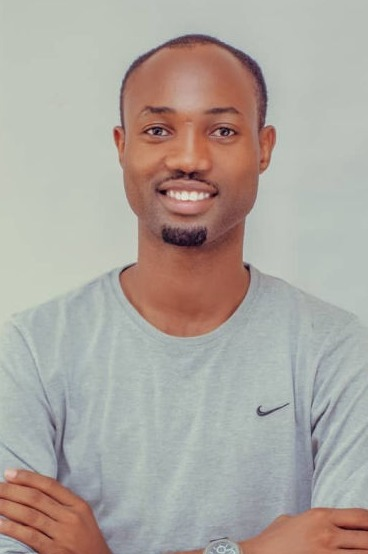
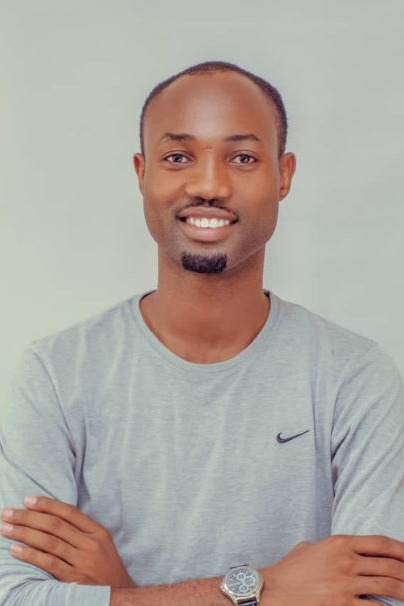
create github pages

diff --git a/home.html b/home.html
@@ -127,90 +127,6 @@
     </div>
 </section>
 
-<section class="extTeams cid-sg38Oh1T4O" id="extTeams12-20">
-
-    
-
-    
-    <div class="container">
-        <h2 class="mbr-title mbr-fonts-style align-center mbr-black display-2">
-            Our Awesome Team
-        </h2>
-        <div class="row justify-content-center pt-5">
-            <div class="col-sm-6 card-wrap col-lg-3">
-                <div class="image-wrap">
-                    <img src="assets/images/dr.-gbonjubola-abiri-506x675.jpg" alt="">
-                </div>
-                <div class="card-bottom pb-3">
-                    <h3 class="mbr-fonts-style mbr-section-title align-center pt-3 display-5">Edward Nash</h3>
-                    <h3 class="mbr-fonts-style mbr-role align-center pt-2 display-4">
-                        <em>Jurist</em>
-                    </h3>
-                    <div class="py-2 ornament align-center">
-                        <svg xmlns="http://www.w3.org/2000/svg" viewBox="0 0 133 20" height="20" width="150" fill="#149dcc">
-                            <g><path d="M127.18,6.19C121-.05,109.94-.24,101.84.1,90.84.56,80,3.3,69.32,5.77c-8,1.86-16,3.63-24,5.72-9.21,2.41-18.6,4.72-28.14,5.19-4.1.2-8.48,0-12.16-2a6.6,6.6,0,0,1-2.7-9A5.46,5.46,0,0,1,7.07,2.77c4-.22,6.73,8.39-.08,4.58a.49.49,0,0,0-.49.84c4.88,3,10.8,0,5.4-4.91C7.6-.63.4,2.06,0,8-1,24,28.25,17,36.29,15.24,53.74,11.37,70.9,6.44,88.53,3.33c11.1-2,24.75-3.54,35.06,2.19a16,16,0,0,1,6.86,8.85c1.29,4.31-4.35,4.2-7,3.52-4.84-1.26-2.42-8,1.22-3,.61.83,2,0,1.4-.82-2.15-2.93-6.71-4.9-7.12.35s8.36,7.24,11.72,4.47C135,15.32,129.91,9,127.18,6.19Z"></path></g>
-                        </svg>
-                    </div>
-                    
-                </div>
-            </div>
-            <div class="col-sm-6 card-wrap col-lg-3">
-                <div class="image-wrap">
-                    <img src="assets/images/jesudamilare-adesegun-david-506x762.jpg" alt="">
-                </div>
-                <div class="card-bottom pb-3">
-                    <h3 class="mbr-fonts-style mbr-section-title align-center pt-3 display-5">Phoebe Farmer</h3>
-                    <h3 class="mbr-fonts-style mbr-role align-center pt-2 display-4">
-                        <em>Accountant</em>
-                    </h3>
-                    <div class="py-2 ornament align-center">
-                        <svg xmlns="http://www.w3.org/2000/svg" viewBox="0 0 133 20" height="20" width="150" fill="#149dcc">
-                            <g><path d="M127.18,6.19C121-.05,109.94-.24,101.84.1,90.84.56,80,3.3,69.32,5.77c-8,1.86-16,3.63-24,5.72-9.21,2.41-18.6,4.72-28.14,5.19-4.1.2-8.48,0-12.16-2a6.6,6.6,0,0,1-2.7-9A5.46,5.46,0,0,1,7.07,2.77c4-.22,6.73,8.39-.08,4.58a.49.49,0,0,0-.49.84c4.88,3,10.8,0,5.4-4.91C7.6-.63.4,2.06,0,8-1,24,28.25,17,36.29,15.24,53.74,11.37,70.9,6.44,88.53,3.33c11.1-2,24.75-3.54,35.06,2.19a16,16,0,0,1,6.86,8.85c1.29,4.31-4.35,4.2-7,3.52-4.84-1.26-2.42-8,1.22-3,.61.83,2,0,1.4-.82-2.15-2.93-6.71-4.9-7.12.35s8.36,7.24,11.72,4.47C135,15.32,129.91,9,127.18,6.19Z"></path></g>
-                        </svg>
-                    </div>
-                    
-                </div>
-            </div>
-            <div class="col-sm-6 card-wrap col-lg-3">
-                <div class="image-wrap">
-                    <img src="assets/images/sola-oguche-agudah-506x724.jpg" alt="">
-                </div>
-                <div class="card-bottom pb-3">
-                    <h3 class="mbr-fonts-style mbr-section-title align-center pt-3 display-5">Mary Page</h3>
-                    <h3 class="mbr-fonts-style mbr-role align-center pt-2 display-4">
-                        <em>Designer</em>
-                    </h3>
-                    <div class="py-2 ornament align-center">
-                        <svg xmlns="http://www.w3.org/2000/svg" viewBox="0 0 133 20" height="20" width="150" fill="#149dcc">
-                            <g><path d="M127.18,6.19C121-.05,109.94-.24,101.84.1,90.84.56,80,3.3,69.32,5.77c-8,1.86-16,3.63-24,5.72-9.21,2.41-18.6,4.72-28.14,5.19-4.1.2-8.48,0-12.16-2a6.6,6.6,0,0,1-2.7-9A5.46,5.46,0,0,1,7.07,2.77c4-.22,6.73,8.39-.08,4.58a.49.49,0,0,0-.49.84c4.88,3,10.8,0,5.4-4.91C7.6-.63.4,2.06,0,8-1,24,28.25,17,36.29,15.24,53.74,11.37,70.9,6.44,88.53,3.33c11.1-2,24.75-3.54,35.06,2.19a16,16,0,0,1,6.86,8.85c1.29,4.31-4.35,4.2-7,3.52-4.84-1.26-2.42-8,1.22-3,.61.83,2,0,1.4-.82-2.15-2.93-6.71-4.9-7.12.35s8.36,7.24,11.72,4.47C135,15.32,129.91,9,127.18,6.19Z"></path></g>
-                        </svg>
-                    </div>
-                    
-                </div>
-            </div>
-            <div class="col-sm-6 card-wrap col-lg-3">
-                <div class="image-wrap">
-                    <img src="assets/images/ifeoluwa-shoola-506x759.jpeg" alt="">
-                </div>
-                <div class="card-bottom pb-3">
-                    <h3 class="mbr-fonts-style mbr-section-title align-center pt-3 display-5">Donald Walsh</h3>
-                    <h3 class="mbr-fonts-style mbr-role align-center pt-2 display-4">
-                        <em>Programmer</em>
-                    </h3>
-                    <div class="py-2 ornament align-center">
-                        <svg xmlns="http://www.w3.org/2000/svg" viewBox="0 0 133 20" height="20" width="150" fill="#149dcc">
-                            <g><path d="M127.18,6.19C121-.05,109.94-.24,101.84.1,90.84.56,80,3.3,69.32,5.77c-8,1.86-16,3.63-24,5.72-9.21,2.41-18.6,4.72-28.14,5.19-4.1.2-8.48,0-12.16-2a6.6,6.6,0,0,1-2.7-9A5.46,5.46,0,0,1,7.07,2.77c4-.22,6.73,8.39-.08,4.58a.49.49,0,0,0-.49.84c4.88,3,10.8,0,5.4-4.91C7.6-.63.4,2.06,0,8-1,24,28.25,17,36.29,15.24,53.74,11.37,70.9,6.44,88.53,3.33c11.1-2,24.75-3.54,35.06,2.19a16,16,0,0,1,6.86,8.85c1.29,4.31-4.35,4.2-7,3.52-4.84-1.26-2.42-8,1.22-3,.61.83,2,0,1.4-.82-2.15-2.93-6.71-4.9-7.12.35s8.36,7.24,11.72,4.47C135,15.32,129.91,9,127.18,6.19Z"></path></g>
-                        </svg>
-                    </div>
-                    
-                </div>
-            </div>
-            
-            
-        </div>
-    </div>
-</section>
-
 <section class="extTeams cid-sg2m8mM3js" id="extTeams5-1v">
 
     
@@ -271,7 +187,7 @@
                         <a href="#"><span mbr-icon class="mbr-iconfont mbr-iconfont-social socicon-linkedin socicon" mbr-if="iconsCount > 1"></span></a>
                         <a href="#"><span mbr-icon class="mbr-iconfont mbr-iconfont-social socicon-instagram socicon" mbr-if="iconsCount > 2"></span></a>
                             </div> -->
-                        <img src="assets/images/sola-oguche-agudah-506x724.jpg" alt="">
+                        <img src="assets/images/sola-oguche-agudah-506x724.jpeg" alt="">
                     </div>
                     <div class="card-box">
                         <h4 class="card-title pt-4 mbr-fonts-style display-5"><strong>Sola Oguche-Agudah</strong></h4>
@@ -291,7 +207,7 @@
                         <a href="#"><span mbr-icon class="mbr-iconfont mbr-iconfont-social socicon-linkedin socicon" mbr-if="iconsCount > 1"></span></a>
                         <a href="#"><span mbr-icon class="mbr-iconfont mbr-iconfont-social socicon-instagram socicon" mbr-if="iconsCount > 2"></span></a>
                             </div> -->
-                        <img src="assets/images/ifeoluwa-shoola-506x337.jpeg" alt="">
+                        <img src="assets/images/ifeoluwa-shoola-506x759.jpeg" alt="">
                     </div>
                     <div class="card-box">
                         <h4 class="card-title pt-4 mbr-fonts-style display-5"><strong>Ifeoluwa Shoola</strong></h4>
@@ -339,7 +255,7 @@
                     Please feel free to reach out to us via our contact channels if you have any enquiries.</p>
             </div>
             <div class="col-12 col-md-6">
-                <div class="google-map"><iframe frameborder="0" style="border:0" src="https://www.google.com/maps/embed/v1/place?key=AIzaSyCNveGQ9bfpKFwWzQLLftrR9hNiHwdqQG8&amp;q=Lekki, Lagos, Nigeria" allowfullscreen=""></iframe></div>
+                <div class="google-map"><iframe frameborder="0" style="border:0" src="https://www.google.com/maps/embed/v1/place?key=AIzaSyCZI5F_k6S1k46ujh0SNrapM89f7mJxd30&amp;q=Lekki, Lagos, Nigeria" allowfullscreen=""></iframe></div>
             </div>
             <div class="col-md-6">
                 

diff --git a/assets/mobirise/css/mbr-additional.css b/assets/mobirise/css/mbr-additional.css
@@ -1619,67 +1619,6 @@ a {
   width: 100%;
   object-fit: cover;
 }
-.cid-sg38Oh1T4O {
-  padding-top: 60px;
-  padding-bottom: 60px;
-  background: #ffd3ce;
-  background: linear-gradient(90deg, #ffd3ce, #d1d5ff);
-}
-.cid-sg38Oh1T4O .mbr-section-title {
-  margin-bottom: 0;
-}
-.cid-sg38Oh1T4O .mbr-role {
-  padding-bottom: .5rem;
-}
-.cid-sg38Oh1T4O .mbr-iconfont {
-  color: #767676;
-  font-size: 1rem;
-}
-.cid-sg38Oh1T4O .mbr-iconfont:hover {
-  color: #149dcc;
-}
-.cid-sg38Oh1T4O .image-wrap {
-  position: relative;
-  height: 100%;
-}
-.cid-sg38Oh1T4O .image-wrap img {
-  width: 100%;
-  z-index: 0;
-  object-fit: cover;
-  object-position: center center;
-  height: 100%;
-}
-.cid-sg38Oh1T4O .card-wrap {
-  margin-bottom: 3rem;
-  overflow-y: hidden;
-  height: 400px;
-}
-.cid-sg38Oh1T4O .social-media {
-  list-style-type: none;
-  width: 100%;
-  z-index: 1;
-}
-.cid-sg38Oh1T4O .social-media ul {
-  margin: 0;
-  padding: 0;
-}
-.cid-sg38Oh1T4O .social-media ul li {
-  margin-right: .8rem;
-  display: inline-block;
-}
-.cid-sg38Oh1T4O .card-bottom {
-  background-color: #ffffff;
-  position: absolute;
-  left: 15px;
-  bottom: -92px;
-  padding: 0 .5rem;
-  width: calc(100% - 30px);
-  transition: bottom 0.2s ease-in;
-  bottom: -60px;
-}
-.cid-sg38Oh1T4O .card-bottom:hover {
-  bottom: 0;
-}
 .cid-sg2m8mM3js {
   padding-top: 60px;
   padding-bottom: 60px;

diff --git a/about us.html b/about us.html
@@ -111,7 +111,7 @@
                     Please feel free to reach out to us via our contact channels if you have any enquiries.</p>
             </div>
             <div class="col-12 col-md-6">
-                <div class="google-map"><iframe frameborder="0" style="border:0" src="https://www.google.com/maps/embed/v1/place?key=AIzaSyCNveGQ9bfpKFwWzQLLftrR9hNiHwdqQG8&amp;q=Lekki, Lagos, Nigeria" allowfullscreen=""></iframe></div>
+                <div class="google-map"><iframe frameborder="0" style="border:0" src="https://www.google.com/maps/embed/v1/place?key=AIzaSyDk89J4FSunMF33ruMVWJaJht_Ro0kvoXs&amp;q=Lekki, Lagos, Nigeria" allowfullscreen=""></iframe></div>
             </div>
             <div class="col-md-6">
                 
